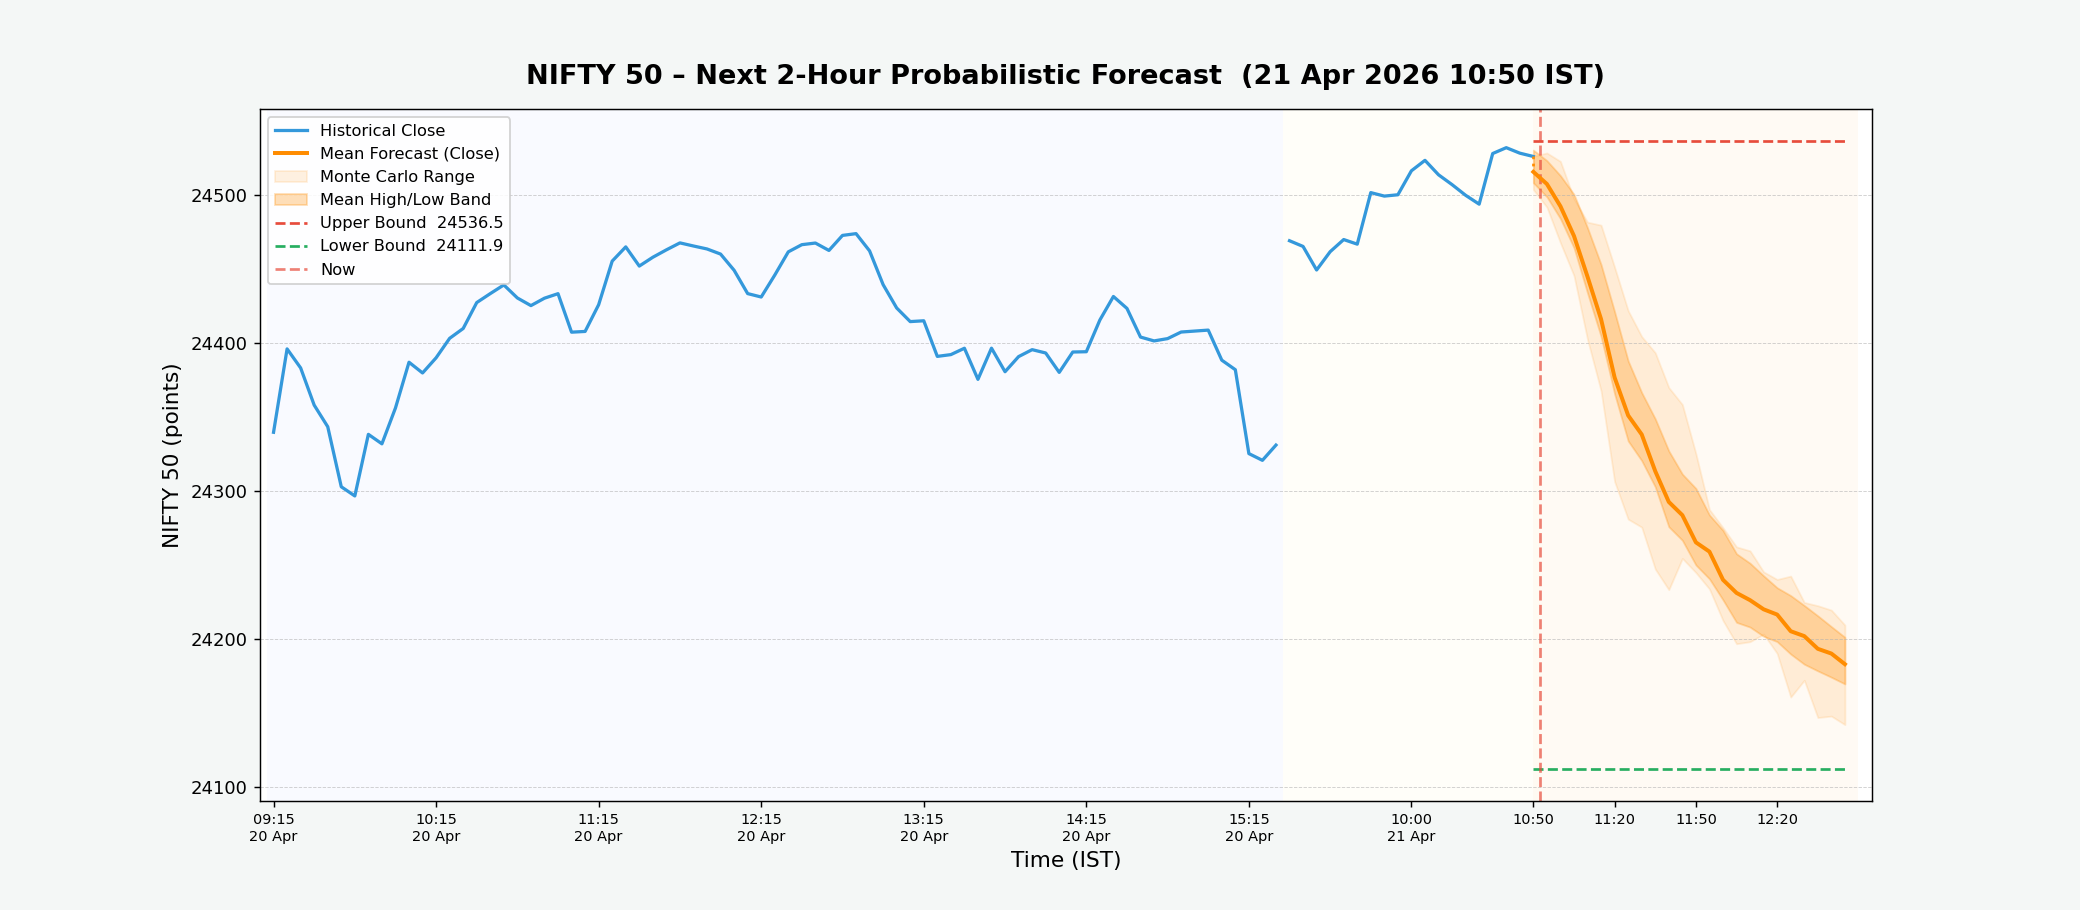
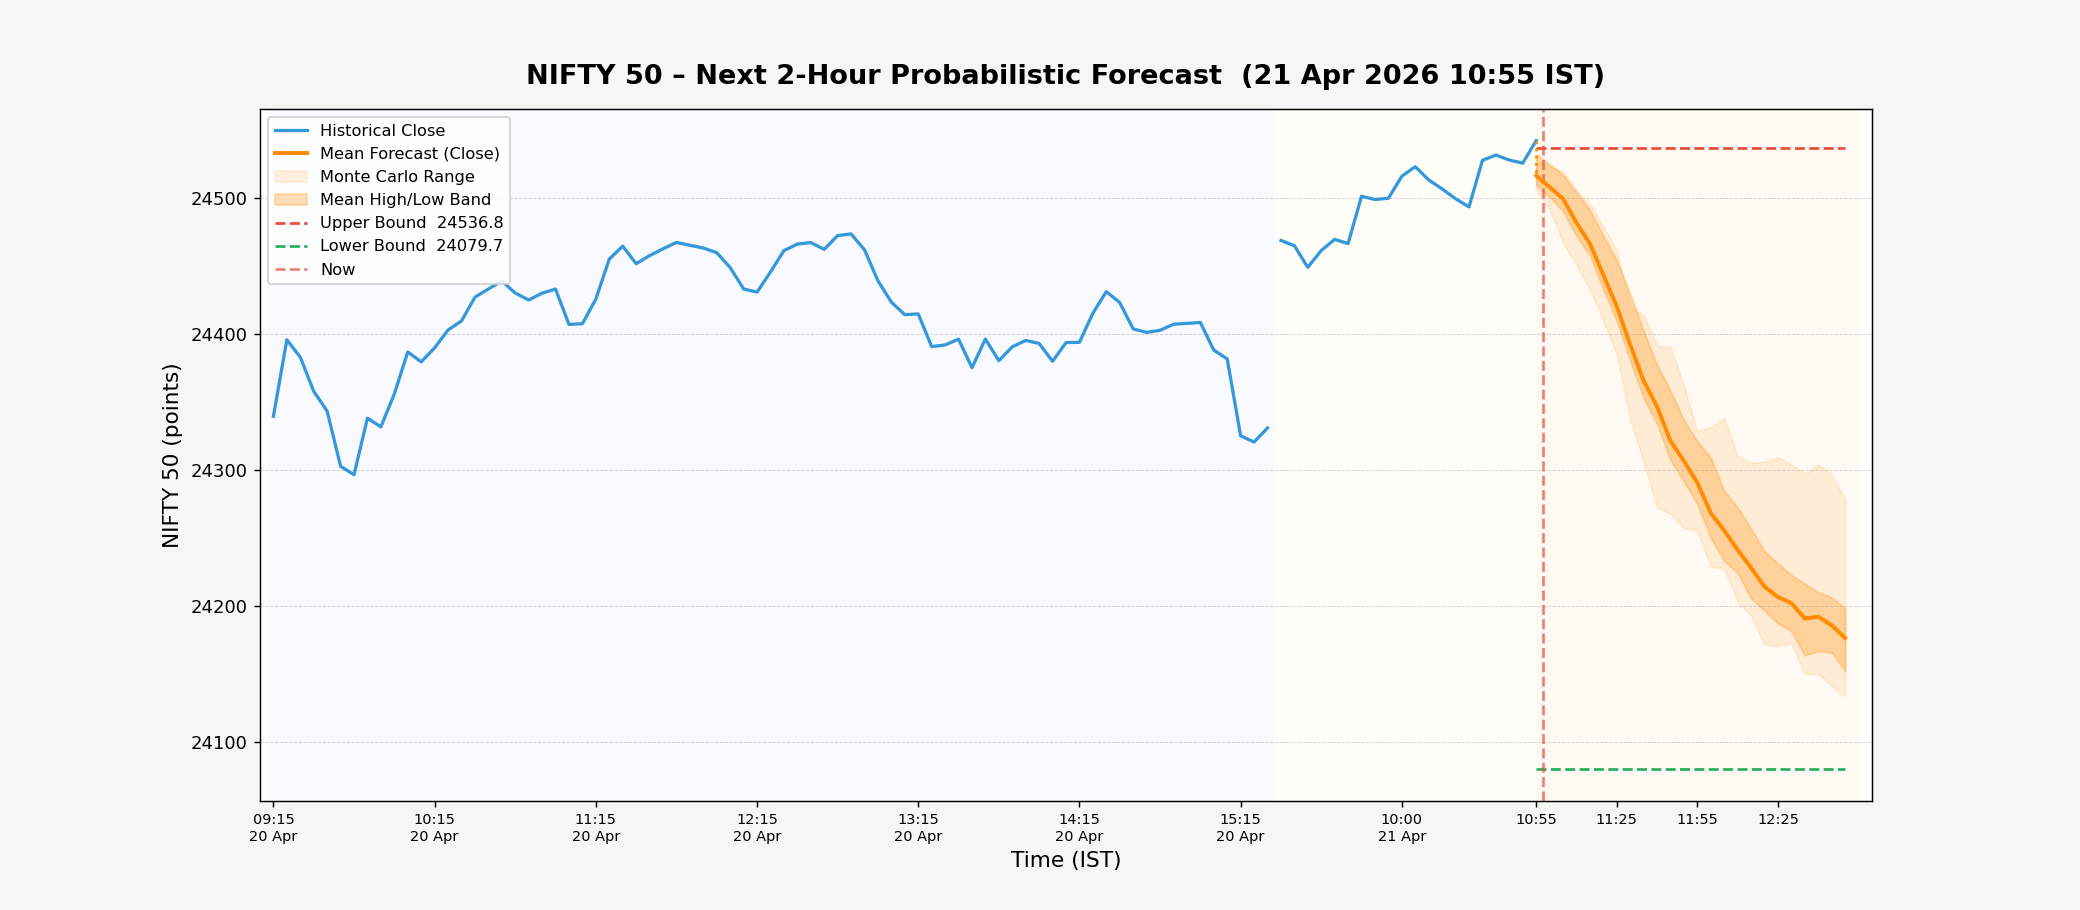
NIFTY forecast update – 2026-04-21 10:55 IST

diff --git a/index.html b/index.html
@@ -24,29 +24,29 @@
 
         <!-- Timestamp bar -->
         <div class="timestamp-bar">
-            <span>Last updated (IST):&nbsp;<strong id="update-time">2026-04-21 10:50:04</strong></span>
+            <span>Last updated (IST):&nbsp;<strong id="update-time">2026-04-21 10:55:04</strong></span>
         </div>
 
         <!-- Metric cards -->
         <div class="metrics-container">
             <div class="metric-card bullish">
                 <div class="metric-label">Bullish Bar Ratio</div>
-                <div class="metric-value" id="upside-prob">13.3%</div>
+                <div class="metric-value" id="upside-prob">13.8%</div>
                 <div class="metric-sub">Next 2h · close &gt; open %</div>
             </div>
             <div class="metric-card upper">
                 <div class="metric-label">Upper Bound</div>
-                <div class="metric-value" id="upper-bound">24536.5</div>
+                <div class="metric-value" id="upper-bound">24536.8</div>
                 <div class="metric-sub">Max predicted high</div>
             </div>
             <div class="metric-card lower">
                 <div class="metric-label">Lower Bound</div>
-                <div class="metric-value" id="lower-bound">24111.9</div>
+                <div class="metric-value" id="lower-bound">24079.7</div>
                 <div class="metric-sub">Min predicted low</div>
             </div>
             <div class="metric-card range">
                 <div class="metric-label">Predicted Range</div>
-                <div class="metric-value" id="pred-range">424.6 pts</div>
+                <div class="metric-value" id="pred-range">457.1 pts</div>
                 <div class="metric-sub">Upper − Lower spread</div>
             </div>
         </div>
